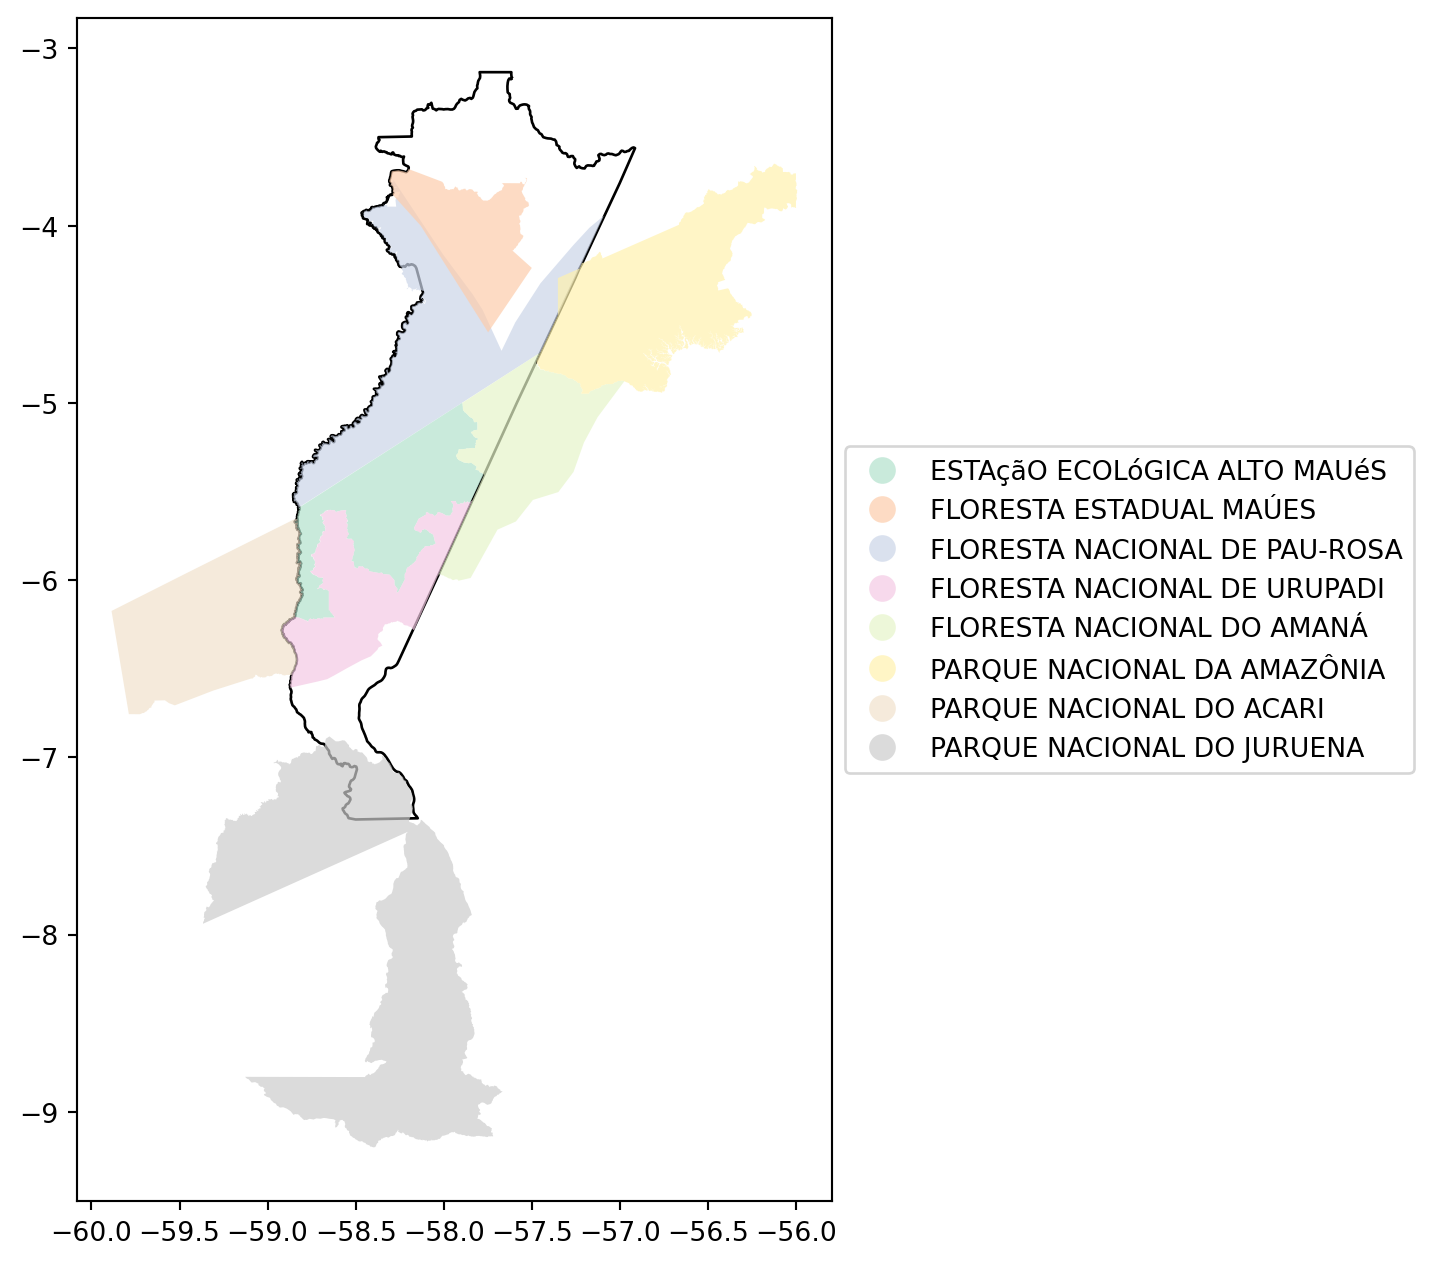
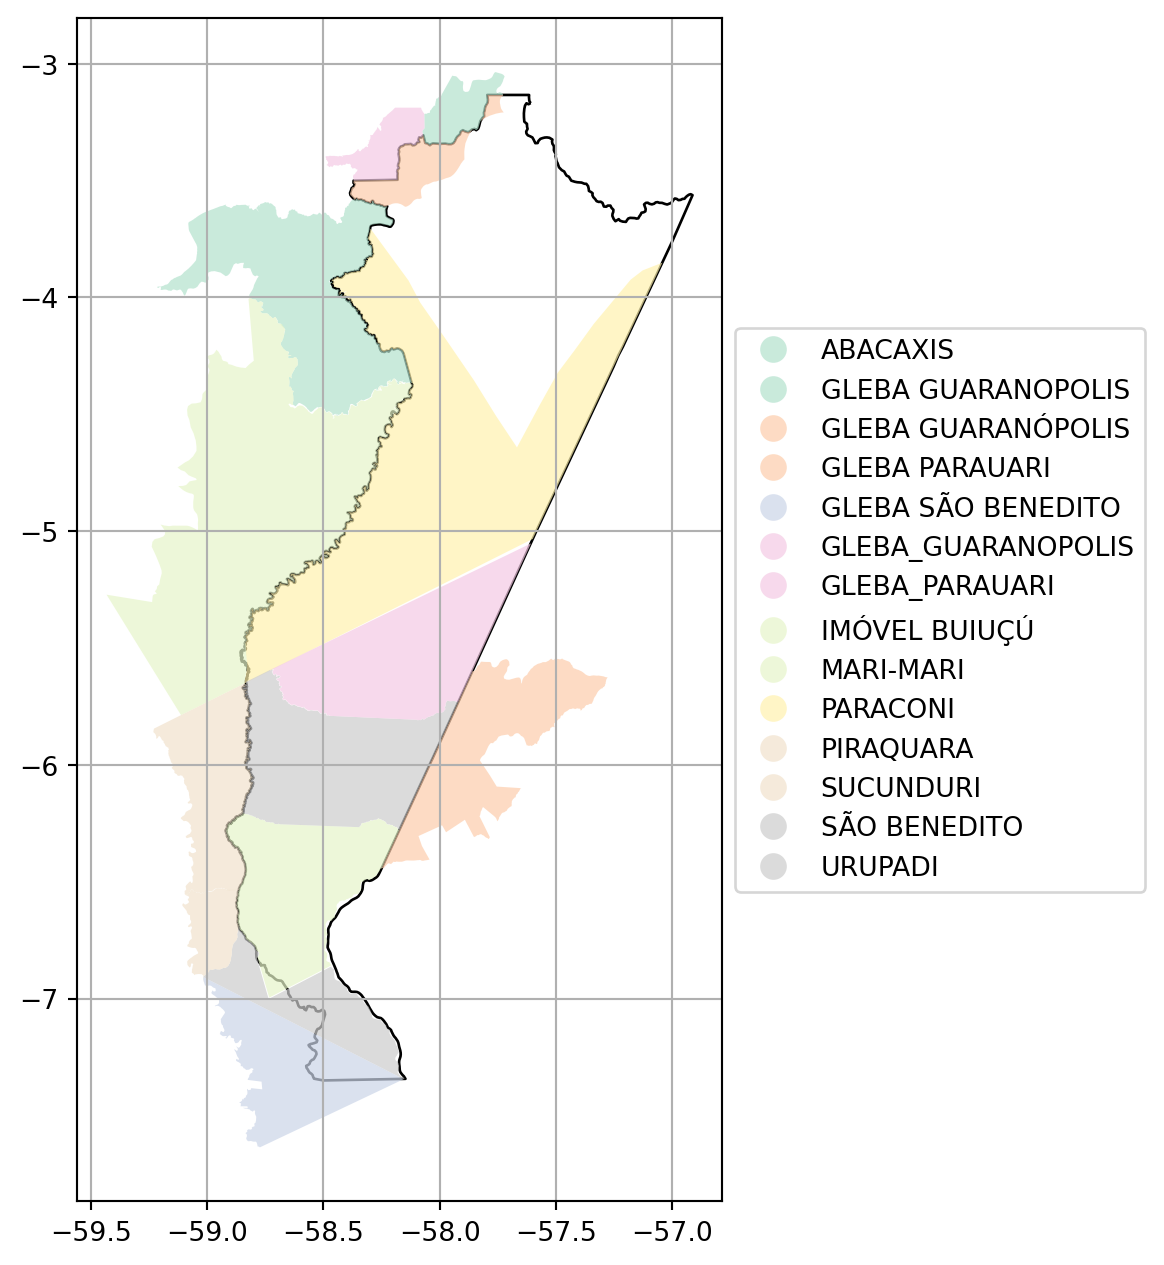
analise das glebas municipais

diff --git a/docs/15-municipio-1.html b/docs/15-municipio-1.html
@@ -60,9 +60,6 @@ ul.task-list li input[type="checkbox"] {
     "search-submit-button-title": "Submit"
   }
 }</script>
-<script src="https://cdnjs.cloudflare.com/ajax/libs/require.js/2.3.6/require.min.js" integrity="sha512-c3Nl8+7g4LMSTdrm621y7kf9v3SDPnhxLNhcjFJbKECVnmZHTdo+IRO05sNLTH/D3vA6u1X32ehoLC7WFVdheg==" crossorigin="anonymous"></script>
-<script src="https://cdnjs.cloudflare.com/ajax/libs/jquery/3.5.1/jquery.min.js" integrity="sha512-bLT0Qm9VnAYZDflyKcBaQ2gg0hSYNQrJ8RilYldYQ1FxQYoCLtUjuuRuZo+fjqhx/qtq/1itJ0C2ejDxltZVFg==" crossorigin="anonymous"></script>
-<script type="application/javascript">define('jquery', [],function() {return window.jQuery;})</script>
 
 
 <link rel="stylesheet" href="styles.css">
@@ -238,41 +235,80 @@ Note
 <li>percentual de PA no município</li>
 </ol>
 <p><strong><em>Problemas</em></strong></p>
+<ol type="1">
+<li>Glebas com nomes semelhantes com grafias diferentes resultando em um agrupamento de cálculo de somatóriao de áreas com possibilidade de erro caso seja a mesma área;</li>
+<li></li>
+</ol>
 </div>
 </div>
 <section id="informações-gerais." class="level2" data-number="15.1">
 <h2 data-number="15.1" class="anchored" data-anchor-id="informações-gerais."><span class="header-section-number">15.1</span> Informações Gerais.</h2>
-<div class="cell" data-execution_count="1">
+<div class="cell" data-execution_count="2">
 <div class="cell-output cell-output-display">
-<p><img src="15-municipio-1_files/figure-html/cell-2-output-1.png" width="870" height="633"></p>
+<p><img src="15-municipio-1_files/figure-html/cell-3-output-1.png" width="870" height="633"></p>
 </div>
-<div class="cell-output cell-output-display" data-execution_count="1">
-
-<div>
+<div class="cell-output cell-output-display" data-execution_count="2">
 
 <table class="dataframe table table-sm table-striped">
-  <thead>
-    <tr>
-      <th></th>
-      <th>Estado</th>
-      <th>UF</th>
-      <th>Código do Município</th>
-      <th>Nome do Município</th>
-      <th>Área do Município (km²)</th>
-    </tr>
-  </thead>
-  <tbody>
-    <tr>
-      <th>199</th>
-      <td>Amazonas</td>
-      <td>AM</td>
-      <td>1302900</td>
-      <td>Maués</td>
-      <td>39991.0660</td>
-    </tr>
-  </tbody>
+
+<thead>
+
+<tr>
+
+<th>
+Estado
+</th>
+
+<th>
+UF
+</th>
+
+<th>
+Código do Município
+</th>
+
+<th>
+Nome do Município
+</th>
+
+<th>
+Área do Município (km²)
+</th>
+
+</tr>
+
+</thead>
+
+<tbody>
+
+<tr>
+
+<td>
+Amazonas
+</td>
+
+<td>
+AM
+</td>
+
+<td>
+1302900
+</td>
+
+<td>
+Maués
+</td>
+
+<td>
+39991.0660
+</td>
+
+</tr>
+
+</tbody>
+
+
 </table>
-</div>
 </div>
 </div>
 </section>
@@ -280,20 +316,250 @@ Note
 <h2 data-number="15.2" class="anchored" data-anchor-id="glebas-federais-no-município"><span class="header-section-number">15.2</span> Glebas Federais no Município</h2>
 <section id="mapa-de-glebas" class="level3" data-number="15.2.1">
 <h3 data-number="15.2.1" class="anchored" data-anchor-id="mapa-de-glebas"><span class="header-section-number">15.2.1</span> Mapa de Glebas</h3>
-<div class="cell" data-execution_count="2">
+<div class="cell" data-execution_count="3">
 <div class="cell-output cell-output-display">
-<p><img src="15-municipio-1_files/figure-html/cell-3-output-1.png" width="582" height="633"></p>
+<p><img src="15-municipio-1_files/figure-html/cell-4-output-1.png" width="582" height="633"></p>
 </div>
 </div>
 </section>
+<section id="área-do-município-com-glebas-federais" class="level3" data-number="15.2.2">
+<h3 data-number="15.2.2" class="anchored" data-anchor-id="área-do-município-com-glebas-federais"><span class="header-section-number">15.2.2</span> Área do município com Glebas Federais</h3>
+<div class="cell" data-execution_count="4">
+<div class="cell-output cell-output-display">
+<p><img src="15-municipio-1_files/figure-html/cell-5-output-1.png" width="424" height="411"></p>
+</div>
+<section id="tabela-de-glebas-federais-no-município-e-suas-áreas" class="level3 cell-output cell-output-display" data-number="15.2.3">
+<h3 data-number="15.2.3" class="anchored" data-anchor-id="tabela-de-glebas-federais-no-município-e-suas-áreas"><span class="header-section-number">15.2.3</span> Tabela de Glebas Federais no Município e suas áreas</h3>
+</section>
+<div class="cell-output cell-output-display" data-execution_count="4">
+
+<table class="dataframe table table-sm table-striped">
+
+<thead>
+
+<tr>
+
+<th>
+</th>
+
+<th>
+Área (km²)
+</th>
+
+</tr>
+
+<tr>
+
+<th>
+nome_gleba
+</th>
+
+<th>
+</th>
+
+</tr>
+
+</thead>
+
+<tbody>
+
+<tr>
+
+<th>
+ABACAXIS
+</th>
+
+<td>
+2.5745
+</td>
+
+</tr>
+
+<tr>
+
+<th>
+GLEBA GUARANOPOLIS
+</th>
+
+<td>
+0.0368
+</td>
+
+</tr>
+
+<tr>
+
+<th>
+GLEBA GUARANÓPOLIS
+</th>
+
+<td>
+973.4844
+</td>
+
+</tr>
+
+<tr>
+
+<th>
+GLEBA PARAUARI
+</th>
+
+<td>
+1.8713
+</td>
+
+</tr>
+
+<tr>
+
+<th>
+GLEBA SÃO BENEDITO
+</th>
+
+<td>
+488.2878
+</td>
+
+</tr>
+
+<tr>
+
+<th>
+GLEBA_GUARANOPOLIS
+</th>
+
+<td>
+0.7982
+</td>
+
+</tr>
+
+<tr>
+
+<th>
+GLEBA_PARAUARI
+</th>
+
+<td>
+4702.3993
+</td>
+
+</tr>
+
+<tr>
+
+<th>
+IMÓVEL BUIUÇÚ
+</th>
+
+<td>
+3891.8419
+</td>
+
+</tr>
+
+<tr>
+
+<th>
+MARI-MARI
+</th>
+
+<td>
+18.6758
+</td>
+
+</tr>
+
+<tr>
+
+<th>
+PARACONI
+</th>
+
+<td>
+12868.3575
+</td>
+
+</tr>
+
+<tr>
+
+<th>
+PIRAQUARA
+</th>
+
+<td>
+0.1318
+</td>
+
+</tr>
+
+<tr>
+
+<th>
+SUCUNDURI
+</th>
+
+<td>
+1.5496
+</td>
+
+</tr>
+
+<tr>
+
+<th>
+SÃO BENEDITO
+</th>
+
+<td>
+1153.0266
+</td>
+
+</tr>
+
+<tr>
+
+<th>
+URUPADI
+</th>
+
+<td>
+4739.3712
+</td>
+
+</tr>
+
+</tbody>
+
+
+</table>
+</div>
+</div>
+</section>
+<div class="cell" data-execution_count="5">
+<section id="área-total-de-glebas-federais-no-município" class="level3 cell-output cell-output-display" data-number="15.2.4">
+<h3 data-number="15.2.4" class="anchored" data-anchor-id="área-total-de-glebas-federais-no-município"><span class="header-section-number">15.2.4</span> Área total de Glebas Federais no Município</h3>
+</section>
+<div class="cell-output cell-output-display">
+<p><strong>28.842,41 km²</strong></p>
+</div>
+<section id="percentual-do-município-ocupado-por-glebas-federais" class="level3 cell-output cell-output-display" data-number="15.2.5">
+<h3 data-number="15.2.5" class="anchored" data-anchor-id="percentual-do-município-ocupado-por-glebas-federais"><span class="header-section-number">15.2.5</span> Percentual do município ocupado por glebas federais</h3>
+</section>
+<div class="cell-output cell-output-display">
+<p><strong>72,12 %</strong></p>
+</div>
+</div>
 </section>
 <section id="unidades-de-conservação-no-município" class="level2" data-number="15.3">
 <h2 data-number="15.3" class="anchored" data-anchor-id="unidades-de-conservação-no-município"><span class="header-section-number">15.3</span> Unidades de Conservação no Município</h2>
 <section id="mapa-de-unidades-de-conservação" class="level3" data-number="15.3.1">
 <h3 data-number="15.3.1" class="anchored" data-anchor-id="mapa-de-unidades-de-conservação"><span class="header-section-number">15.3.1</span> Mapa de Unidades de Conservação</h3>
-<div class="cell" data-execution_count="3">
+<div class="cell" data-execution_count="6">
 <div class="cell-output cell-output-display">
-<p><img src="15-municipio-1_files/figure-html/cell-4-output-1.png" width="716" height="633"></p>
+<p><img src="15-municipio-1_files/figure-html/cell-7-output-1.png" width="716" height="633"></p>
 </div>
 </div>
 </section>
@@ -302,9 +568,9 @@ Note
 <h2 data-number="15.4" class="anchored" data-anchor-id="terras-indígenas-no-município"><span class="header-section-number">15.4</span> Terras Indígenas no Município</h2>
 <section id="mapa-de-terras-indígenas" class="level3" data-number="15.4.1">
 <h3 data-number="15.4.1" class="anchored" data-anchor-id="mapa-de-terras-indígenas"><span class="header-section-number">15.4.1</span> Mapa de Terras Indígenas</h3>
-<div class="cell" data-execution_count="4">
+<div class="cell" data-execution_count="7">
 <div class="cell-output cell-output-display">
-<p><img src="15-municipio-1_files/figure-html/cell-5-output-1.png" width="531" height="633"></p>
+<p><img src="15-municipio-1_files/figure-html/cell-8-output-1.png" width="531" height="633"></p>
 </div>
 </div>
 
